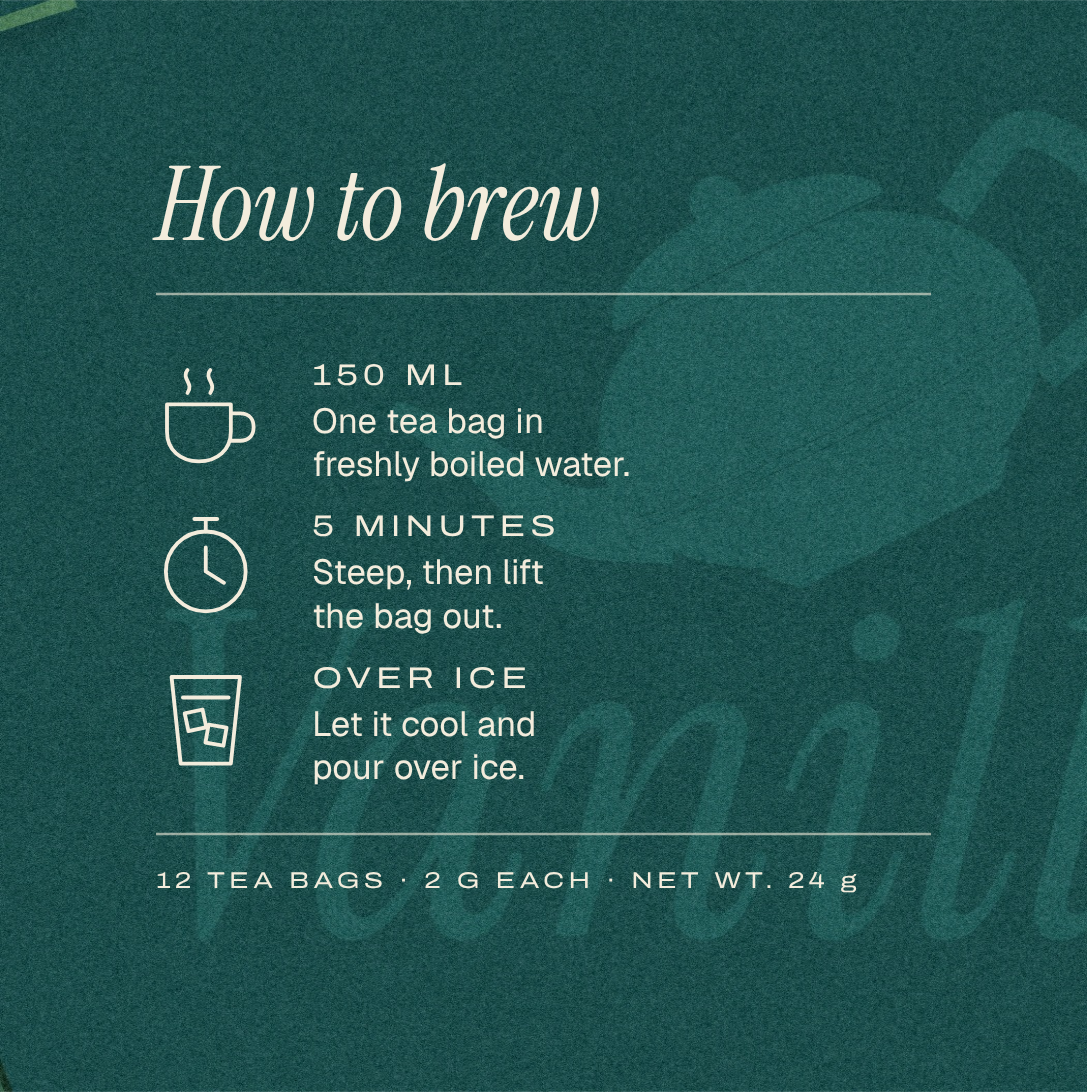
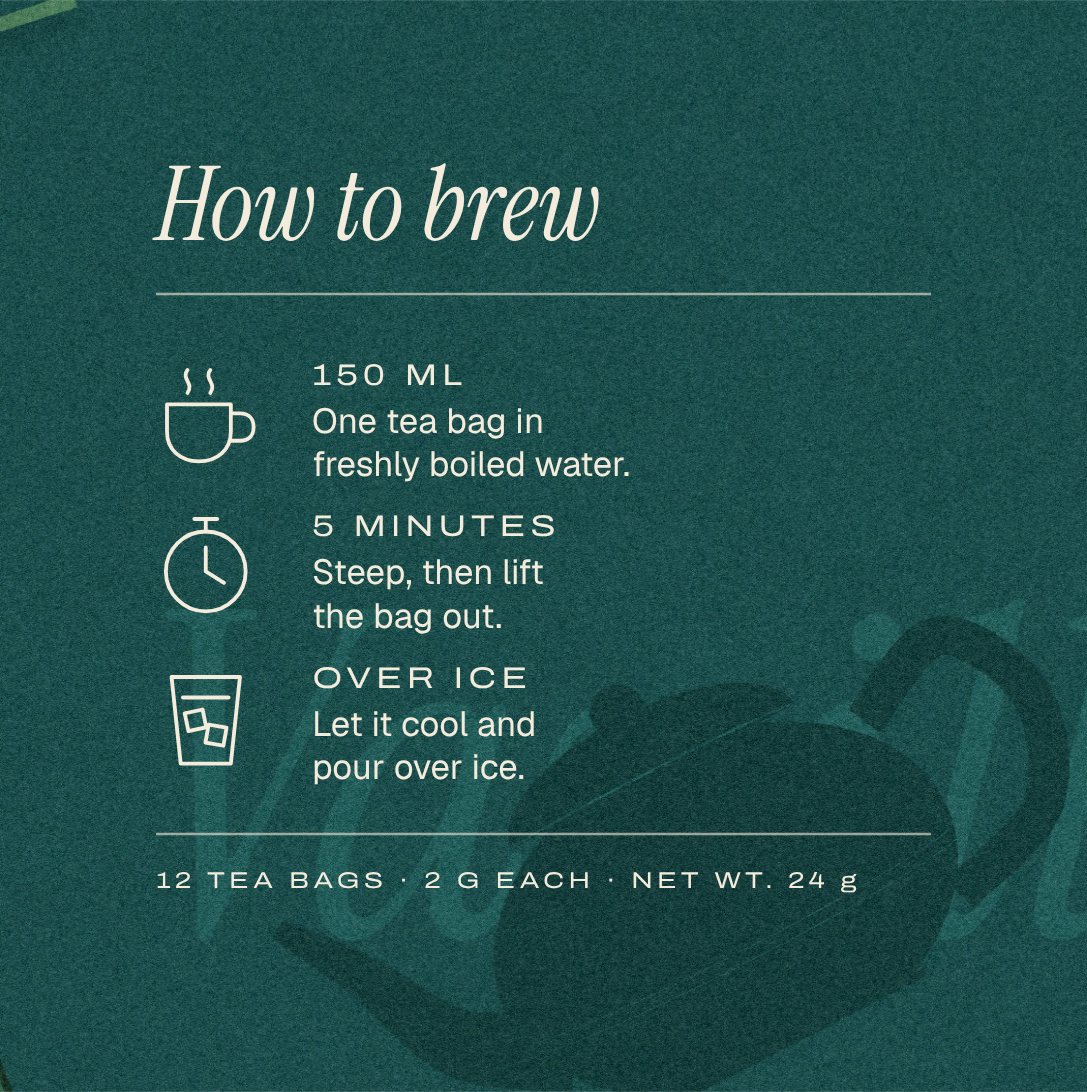
Vanilla Tea: teapot grounded in the brew side's bottom corner, a deeper shadow in front of the lettering
Claude-Session: https://claude.ai/code/session_01Psd6wLDi15Gf4F1fXEFmxS

diff --git a/vanilla-shop/studies/tea/colourblock/build5.py b/vanilla-shop/studies/tea/colourblock/build5.py
@@ -56,11 +56,15 @@ def art(box,k='teal'):
             shoot(P,c,(g+FW+4,B-4),146,52,0.3,19,L,'#000000',22,-1)
             paint_flower(P,c,(g+FW-26,B+32),210,1.6); paint_vbud(P,c,(g+FW-46,B+22),-120,5.5)
     sh=silhouette(h,w,shade_paint); xx=np.arange(w,dtype=np.float32)[None,:]/K; sh*=(xx>f)
-    sh=np.maximum(sh,teapot(h,w,g-11,B+46,0.82)*(xx>f))                         # beside the steps, pouring towards them, the handle round the fold
     img=img*(1-sh[...,None])+hx(p['word'])*sh[...,None]
     # Vanilla Tea, margin to margin across the brew side and the back, on the 10 mm foot
     fnt=fit('Vanilla Tea',(g+FW-10)-(f+10)); m1=mask(h,w,'Vanilla',fnt,f+10,B+FH-10); mall=mask(h,w,'Vanilla Tea',fnt,f+10,B+FH-10)
     img=img*(1-m1[...,None])+hx(p['word'])*m1[...,None]; m2=np.clip(mall-m1,0,1); img=img*(1-m2[...,None])+hx(TEA_TONE)*m2[...,None]
+    # the teapot: a deeper shadow than the teal (the lettering stays lighter), set on the grid: its top on the 10 mm
+    # margin, its handle at the fold; a fine pour falls from the spout tip to the pack rule, the steps' right-hand line
+    sc=0.86; t0=teapot(h,w,60,60,sc); ys,xs_=np.nonzero(t0>0.5); x1,y1=xs_.max()/K-60,ys.max()/K-60
+    tp=teapot(h,w,(g+1.5)-x1,(B+FH+5)-y1,sc)*(xx>f)                                     # grounded in the bottom corner, cut by the foot
+    img=img*(1-tp[...,None])+hx('#163F3D')*tp[...,None]
     # the front, as before
     if box=='long':
         vleaf(P,img,(B+SPLIT+4,B+92),-62,70,8.5,0.25,'#2A5240'); vleaf(P,img,(f+2,B+96),-118,64,7.5,-0.2,'#33604A')
